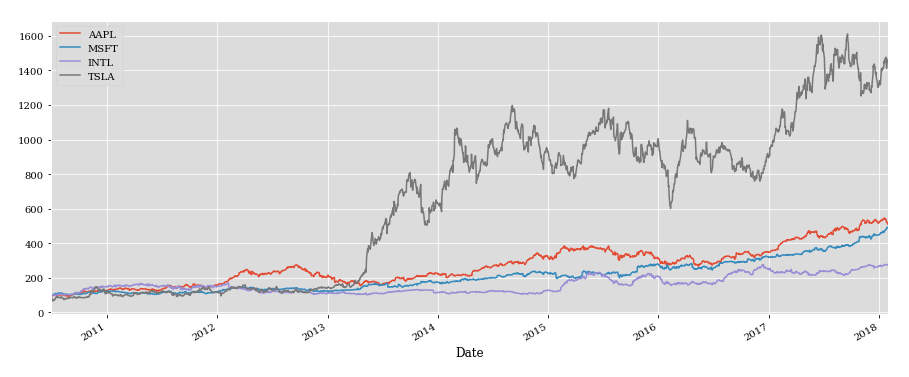
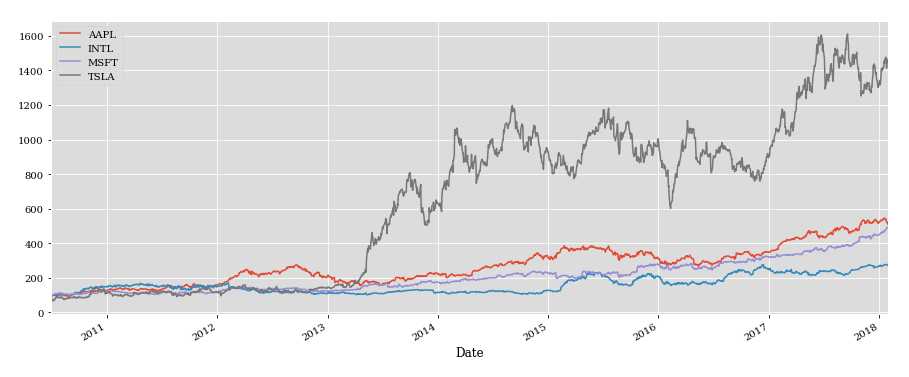
update correct

diff --git a/CAPM_AAPL_INTL_MSFT_TSLA_SP500.py b/CAPM_AAPL_INTL_MSFT_TSLA_SP500.py
@@ -64,7 +64,7 @@ start_date = '2010-6-29'
 # tickers for stocks to be ustilized in this program
 # Apple Inc (AAPL), Microsoft (MSFT), Intel (INTL), Tesla Inc. (TSLA), 
 # SP500 market (^GSPC)
-tickers = ['AAPL', 'MSFT', 'INTL', 'TSLA']
+tickers = ['AAPL', 'INTL', 'MSFT', 'TSLA']
 
 # securites_data, pandas DataFrame to store stock data
 # initialized to enmtpy DataFrame
@@ -99,15 +99,18 @@ plt.savefig('Line-Chart_Compare_Behvior.png',
 plt.show()
 plt.close()
 
+# daily returns using log returns
+returns = np.log(securities_data/securities_data.shift(1))
 
-# daily stock prices converted into daily returns
-returns = securities_data.pct_change()
+# assume an average annual risk free rate over the period of 5%
+excess_daily_returns  = returns - 0.05/252
+
 
 # calculate mean daily returns
-mean_daily_returns = returns.mean()
+mean_excess_daily_returns = excess_daily_returns.mean()
 
 # covariance of daily returns
-cov_matrix = returns.cov()
+cov_matrix = excess_daily_returns.cov()
 
 # set the number of the random portfolio weights runs to try
 number_of_portfolios = 30000
@@ -124,7 +127,7 @@ for i in range(number_of_portfolios):
     weights /= np.sum(weights)
     
     # portfolio return
-    portfolio_return = np.sum(mean_daily_returns * weights) * 252
+    portfolio_return = np.sum(mean_excess_daily_returns * weights) * 252
     
     # calcualte portfolio volatility
     portfolio_std_dev = np.sqrt(np.dot(weights.T, np.dot(cov_matrix, weights))) * np.sqrt(252)
@@ -141,13 +144,13 @@ for i in range(number_of_portfolios):
         results[x+3, i]  = weights[x]
     
 # results_df
-results_df = pd.DataFrame(results.T,columns=['ret','stdev','sharpe',tickers[0],tickers[1],tickers[2],tickers[3]])
+results_df = pd.DataFrame(results.T,columns=['return','stdev','sharpe',tickers[0],tickers[1],tickers[2],tickers[3]])
  
 # locate position of portfolio with highest Sharpe Ratio
-max_sharpe_port = results_df.iloc[results_df['sharpe'].idxmax()]
+max_sharpe_portfolio = results_df.iloc[results_df['sharpe'].idxmax()]
 
 # locate positon of portfolio with minimum standard deviation
-min_vol_port = results_df.iloc[results_df['stdev'].idxmin()]
+min_volatility_portfolio = results_df.iloc[results_df['stdev'].idxmin()]
  
 #create scatter plot coloured by Sharpe Ratio
 plt.scatter(results_df.stdev,results_df.ret,c=results_df.sharpe,cmap='RdYlBu')
@@ -156,9 +159,9 @@ plt.ylabel('Returns')
 plt.title('Markowitz Efficient Frontier with Sharpe Ratio')
 plt.colorbar()
 #plot red star to highlight position of portfolio with highest Sharpe Ratio
-plt.scatter(max_sharpe_port[1],max_sharpe_port[0],marker=(5,1,0),color='r',s=1000)
+plt.scatter(max_sharpe_portfolio[1],max_sharpe_portfolio[0],marker=(5,1,0),color='r',s=1000)
 #plot green star to highlight position of minimum variance portfolio
-plt.scatter(min_vol_port[1],min_vol_port[0],marker=(5,1,0),color='g',s=1000)    
+plt.scatter(min_volatility_portfolio[1],min_volatility_portfolio[0],marker=(5,1,0),color='g',s=1000)    
 plt.savefig('Markowitz-Efficient-Frontier-with-Sharpe-Ratio.png', 
     bbox_inches = 'tight', dpi=None, facecolor='w', edgecolor='b', 
     orientation='portrait', papertype=None, format=None, 
